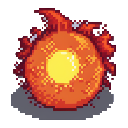
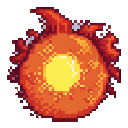
feat(necro-survivors): remaster 38 in-game VFX, gems, chest, parchment, and tile assets at 1024x1024

diff --git a/necro-survivors/src/scenes/BattleScene.ts b/necro-survivors/src/scenes/BattleScene.ts
@@ -66,6 +66,7 @@ export class BattleScene extends Phaser.Scene {
   }
 
   create(): void {
+    this.setGameSpeed(1.0);
     const width = this.cameras.main.width;
     const height = this.cameras.main.height;
 
@@ -235,11 +236,14 @@ export class BattleScene extends Phaser.Scene {
           knockback = 30;
         } else if (caster.def.id === 'drone') {
           texKey = 'vfx_minion_drone';
-          projSpeed = 520;
+          const isAwakenedDrone = this.player.activeSkills.has('awakened_drone');
           const droneSkillLv = this.player.activeSkills.get('psi_drone') ?? 1;
-          const droneCoeff = droneSkillLv >= 5 ? 2.6 : droneSkillLv >= 4 ? 2.0 : droneSkillLv >= 3 ? 1.6 : droneSkillLv >= 2 ? 1.3 : 1.0;
+          const droneCoeff = isAwakenedDrone
+            ? 4.5
+            : droneSkillLv >= 5 ? 2.6 : droneSkillLv >= 4 ? 2.0 : droneSkillLv >= 3 ? 1.6 : droneSkillLv >= 2 ? 1.3 : 1.0;
+          projSpeed = isAwakenedDrone ? 600 : 520;
           projDmg = Math.round(stats.damageMul * 36 * droneCoeff);
-          pierce = droneSkillLv >= 5 ? 5 : droneSkillLv >= 4 ? 3 : 1;
+          pierce = isAwakenedDrone ? 8 : droneSkillLv >= 5 ? 5 : droneSkillLv >= 4 ? 3 : 1;
           knockback = 20;
         }
 
@@ -271,10 +275,13 @@ export class BattleScene extends Phaser.Scene {
         continue;
       }
       p.update(dt, this.spatialGrid);
+      if (this.isPaused) return;
     }
 
     // 8. 경험치 보석 업데이트 & 수집
-    const pickupRad = this.player.getEffectiveStats().pickupRadius;
+    const effectiveStats = this.player.getEffectiveStats();
+    const pickupRad = effectiveStats.pickupRadius;
+    const goldMul = effectiveStats.goldMul;
     for (let i = this.expGems.length - 1; i >= 0; i--) {
       const gem = this.expGems[i];
       if (!gem.active) {
@@ -286,10 +293,11 @@ export class BattleScene extends Phaser.Scene {
       const collected = gem.update(dt, this.player.x, this.player.y, pickupRad);
       if (collected) {
         SoundEngine.getInstance().gemPickup();
-        this.earnedGold += gem.goldValue;
+        this.earnedGold += Math.round(gem.goldValue * goldMul);
         const leveledUp = this.player.addExp(gem.expValue);
         if (leveledUp) {
           this.triggerLevelUp();
+          return;
         }
       }
     }
@@ -303,6 +311,7 @@ export class BattleScene extends Phaser.Scene {
       const cdy = this.evolutionChest.y - this.player.y;
       if (cdx * cdx + cdy * cdy <= 36 * 36) {
         this.triggerChestReward();
+        if (this.isPaused) return;
       }
     }
 
@@ -323,7 +332,7 @@ export class BattleScene extends Phaser.Scene {
         drop.label.destroy();
         this.awakeningDrops.splice(i, 1);
         this.triggerAwakeningSelectorReward();
-        break;
+        return;
       }
     }
   }
@@ -571,8 +580,9 @@ export class BattleScene extends Phaser.Scene {
   }
 
   private spawnEvolutionChest(x: number, y: number): void {
-    this.evolutionChest = this.add.sprite(x, y, 'gate_gold');
-    this.evolutionChest.setDisplaySize(42, 42);
+    const chestKey = this.textures.exists('item_evolution_chest') ? 'item_evolution_chest' : 'gate_gold';
+    this.evolutionChest = this.add.sprite(x, y, chestKey);
+    this.evolutionChest.setDisplaySize(44, 44);
     this.evolutionChest.setDepth(22);
 
     // 보물상자 황금빛 펄스 애니메이션
@@ -594,28 +604,35 @@ export class BattleScene extends Phaser.Scene {
 
     // 각성 가능한 액티브 스킬 탐색 (Lv.5 만렙 + 짝꿍 패시브 보유)
     let candidateAwakened: SkillData | null = null;
+    let evolvedBaseId: string | null = null;
     for (const awakened of AWAKENED_SKILLS) {
       if (!awakened.evolvesFrom || !awakened.requiredPassiveId) continue;
       const baseLv = this.player.activeSkills.get(awakened.evolvesFrom) ?? 0;
+      const boneStormLv = awakened.id === 'awakened_spear' ? (this.player.activeSkills.get('necro_bone_storm') ?? 0) : 0;
       const hasPartnerPassive = (this.player.passiveSkills.get(awakened.requiredPassiveId) ?? 0) > 0;
 
-      if (baseLv >= 5 && hasPartnerPassive) {
+      if (hasPartnerPassive && (baseLv >= 5 || boneStormLv >= 5)) {
         candidateAwakened = awakened;
+        evolvedBaseId = baseLv >= 5 ? awakened.evolvesFrom : 'necro_bone_storm';
         break;
       }
     }
 
     // 각성 조건이 맞으면 진화 스킬 지급, 아니면 대량 마력석(+2000 G) 및 치킨
     const uiScene = this.scene.get('UIScene') as UIScene;
-    if (candidateAwakened) {
+    if (candidateAwakened && evolvedBaseId) {
       // 액티브 스킬 교체
-      this.player.activeSkills.delete(candidateAwakened.evolvesFrom!);
+      this.player.activeSkills.delete(evolvedBaseId);
       this.player.activeSkills.set(candidateAwakened.id, 1);
       this.player.skillCooldowns.set(candidateAwakened.id, 0);
+      this.syncNecroArmy();
       uiScene.showChestModal(candidateAwakened);
     } else {
-      this.earnedGold += 2000;
-      this.player.hp = this.player.maxHp;
+      const chestStats = this.player.getEffectiveStats();
+      this.earnedGold += Math.round(2000 * chestStats.goldMul);
+      const maxHp = chestStats.maxHp;
+      this.player.maxHp = maxHp;
+      this.player.hp = maxHp;
       uiScene.showChestModal(null);
     }
   }

diff --git a/necro-survivors/src/scenes/BootScene.ts b/necro-survivors/src/scenes/BootScene.ts
@@ -21,8 +21,7 @@ export class BootScene extends Phaser.Scene {
       color: '#00ffaa',
     }).setOrigin(0.5);
 
-    const subText = this.add.text(width / 2, height / 2 - 40, '1,950개 도트 에셋 및 차원문 동기화 중...', {
-      fontFamily: 'NeoDunggeunmo, monospace',
+    const subText = this.add.text(width / 2, height / 2 - 40, '200종 정통 도트 에셋 및 차원문 동기화 중...', {
       fontSize: '14px',
       color: '#ffd000',
     }).setOrigin(0.5);
@@ -81,14 +80,17 @@ export class BootScene extends Phaser.Scene {
       this.load.image(skill.id, skill.icon);
     }
 
-    // 인게임 전용 전투 투사체/공격 VFX (전방 방향성 및 전장 스케일 최적화)
+    // 인게임 전용 전투 투사체/공격 VFX (전방 방향성 및 전장 스케일 최적화, 35종 전체 분리 완료)
     const inGameVfxList = [
       'necro_spear', 'necro_bone_storm', 'necro_lich_curse', 'necro_armor', 'dk_grip', 'storm_chain',
       'sniper_shot', 'psi_blackhole', 'cryo_nova', 'ber_whirlwind',
       'sm_dragon', 'psi_drone', 'priest_sanctuary',
       'awakened_spear', 'awakened_armor', 'awakened_grip', 'awakened_chain',
       'awakened_sniper', 'awakened_blackhole', 'awakened_cryo', 'awakened_whirlwind',
-      'awakened_dragon', 'awakened_sanctuary'
+      'awakened_dragon', 'awakened_sanctuary',
+      'storm_thunder', 'cryo_snowball', 'fire_ball', 'fire_storm', 'spear_crimson', 'spear_heaven',
+      'awakened_thunder', 'awakened_snowball', 'awakened_fireball', 'awakened_firestorm',
+      'awakened_spear_crimson', 'awakened_spear_heaven',
     ];
     for (const id of inGameVfxList) {
       this.load.image(`vfx_${id}`, `assets/skills/vfx/vfx_${id}.png`);
@@ -97,8 +99,14 @@ export class BootScene extends Phaser.Scene {
     this.load.image('vfx_minion_mage', 'assets/skills/vfx/vfx_minion_mage.png');
     this.load.image('vfx_minion_drone', 'assets/skills/vfx/vfx_minion_drone.png');
 
-    // 5. 게이트 및 UI 프레임, 드랍 아이템
+    // 5. 게이트 및 UI 프레임, 드랍 아이템 (비급서, 진화 보물상자, 4단계 마력석 보석)
     this.load.image('item_parchment', 'assets/ui/item_parchment.png');
+    this.load.image('item_evolution_chest', 'assets/ui/item_evolution_chest.png');
+    this.load.image('gem_cyan', 'assets/ui/gems/gem_cyan.png');
+    this.load.image('gem_jade', 'assets/ui/gems/gem_jade.png');
+    this.load.image('gem_gold', 'assets/ui/gems/gem_gold.png');
+    this.load.image('gem_ruby', 'assets/ui/gems/gem_ruby.png');
+    this.load.image('battle_tile_1', 'assets/ui/tiles/battle_tile_1.png');
 
     const gateTypes = ['iron', 'bronze', 'silver', 'gold', 'platinum', 'diamond'];
     for (const g of gateTypes) {

diff --git a/necro-survivors/src/entities/ExpGem.ts b/necro-survivors/src/entities/ExpGem.ts
@@ -6,7 +6,7 @@ export class ExpGem {
   public expValue: number;
   public goldValue: number;
   public active: boolean = true;
-  private sprite: Phaser.GameObjects.Arc;
+  private sprite: Phaser.GameObjects.Sprite;
   private glowSprite: Phaser.GameObjects.Arc;
   private isAttracted: boolean = false;
   private attractSpeed: number = 0;
@@ -19,11 +19,19 @@ export class ExpGem {
     this.expValue = exp;
     this.goldValue = gold;
 
-    // 색상 결정: 10 미만 청록, 50 미만 황금, 50 이상 보라/루비
+    // 색상 및 16비트 보석 텍스처 결정
     const color = this.getColorForExp(exp);
+    const texKey = this.getTextureForExp(exp);
 
-    this.glowSprite = scene.add.circle(x, y, 10, color, 0.4).setDepth(11);
-    this.sprite = scene.add.circle(x, y, 5, color, 1.0).setDepth(12);
+    this.glowSprite = scene.add.circle(x, y, 11, color, 0.28).setDepth(11);
+    this.sprite = scene.add.sprite(x, y, texKey).setDisplaySize(20, 20).setDepth(12);
+  }
+
+  private getTextureForExp(exp: number): string {
+    if (exp >= 100) return 'gem_ruby';
+    if (exp >= 40) return 'gem_gold';
+    if (exp >= 20) return 'gem_jade';
+    return 'gem_cyan';
   }
 
   private getColorForExp(exp: number): number {
@@ -45,8 +53,9 @@ export class ExpGem {
     this.lifeTimer = 40.0;
 
     const color = this.getColorForExp(exp);
-    this.sprite.setPosition(x, y).setFillStyle(color, 1.0).setVisible(true).setAlpha(1.0);
-    this.glowSprite.setPosition(x, y).setFillStyle(color, 0.35).setVisible(true).setAlpha(0.35);
+    const texKey = this.getTextureForExp(exp);
+    this.sprite.setTexture(texKey).setPosition(x, y).setDisplaySize(20, 20).setVisible(true).setAlpha(1.0);
+    this.glowSprite.setPosition(x, y).setFillStyle(color, 0.28).setVisible(true).setAlpha(0.28);
   }
 
   public merge(otherExp: number, otherGold: number): void {
@@ -54,9 +63,11 @@ export class ExpGem {
     this.goldValue += otherGold;
     this.lifeTimer = 40.0; // 병합 시 수명 연장
     const color = this.getColorForExp(this.expValue);
-    this.sprite.setFillStyle(color, 1.0);
-    this.glowSprite.setFillStyle(color, 0.35);
-    this.sprite.setScale(Math.min(2.0, 1.0 + this.expValue * 0.005));
+    const texKey = this.getTextureForExp(this.expValue);
+    this.sprite.setTexture(texKey);
+    this.glowSprite.setFillStyle(color, 0.28);
+    const sz = Math.min(30, 20 + this.expValue * 0.06);
+    this.sprite.setDisplaySize(sz, sz);
   }
 
   public update(dt: number, playerX: number, playerY: number, pickupRadius: number): boolean {
